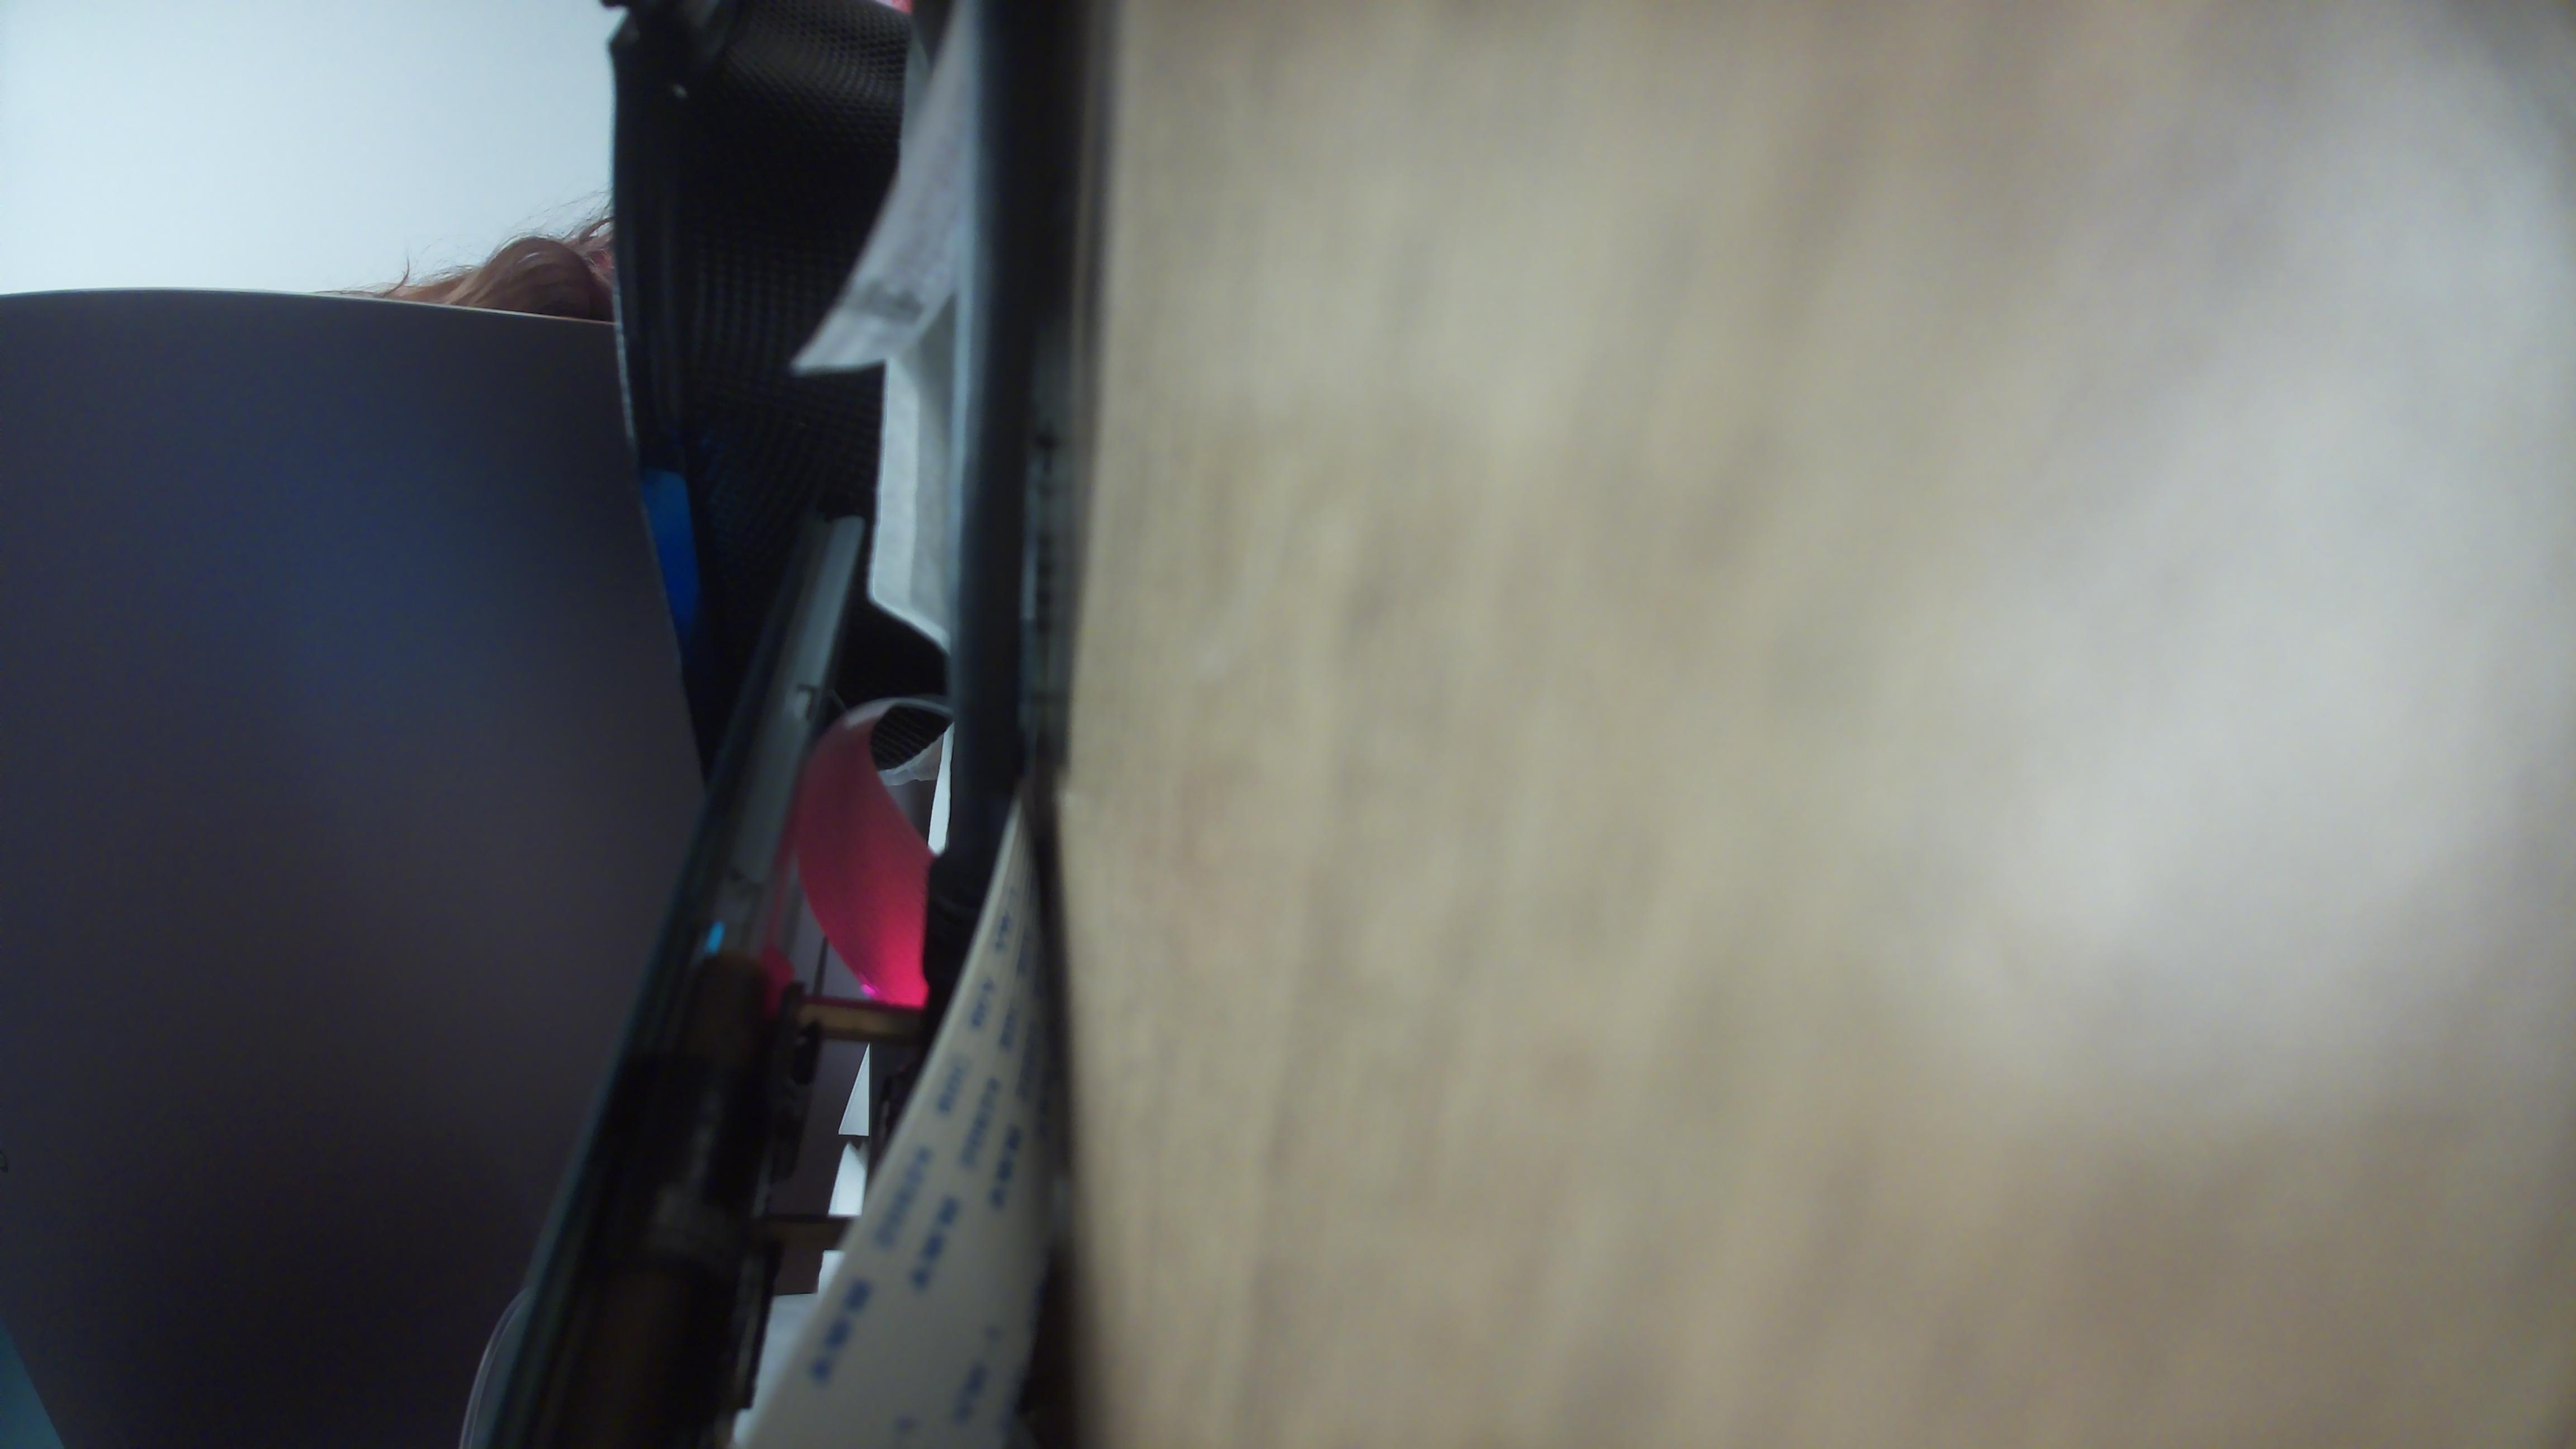
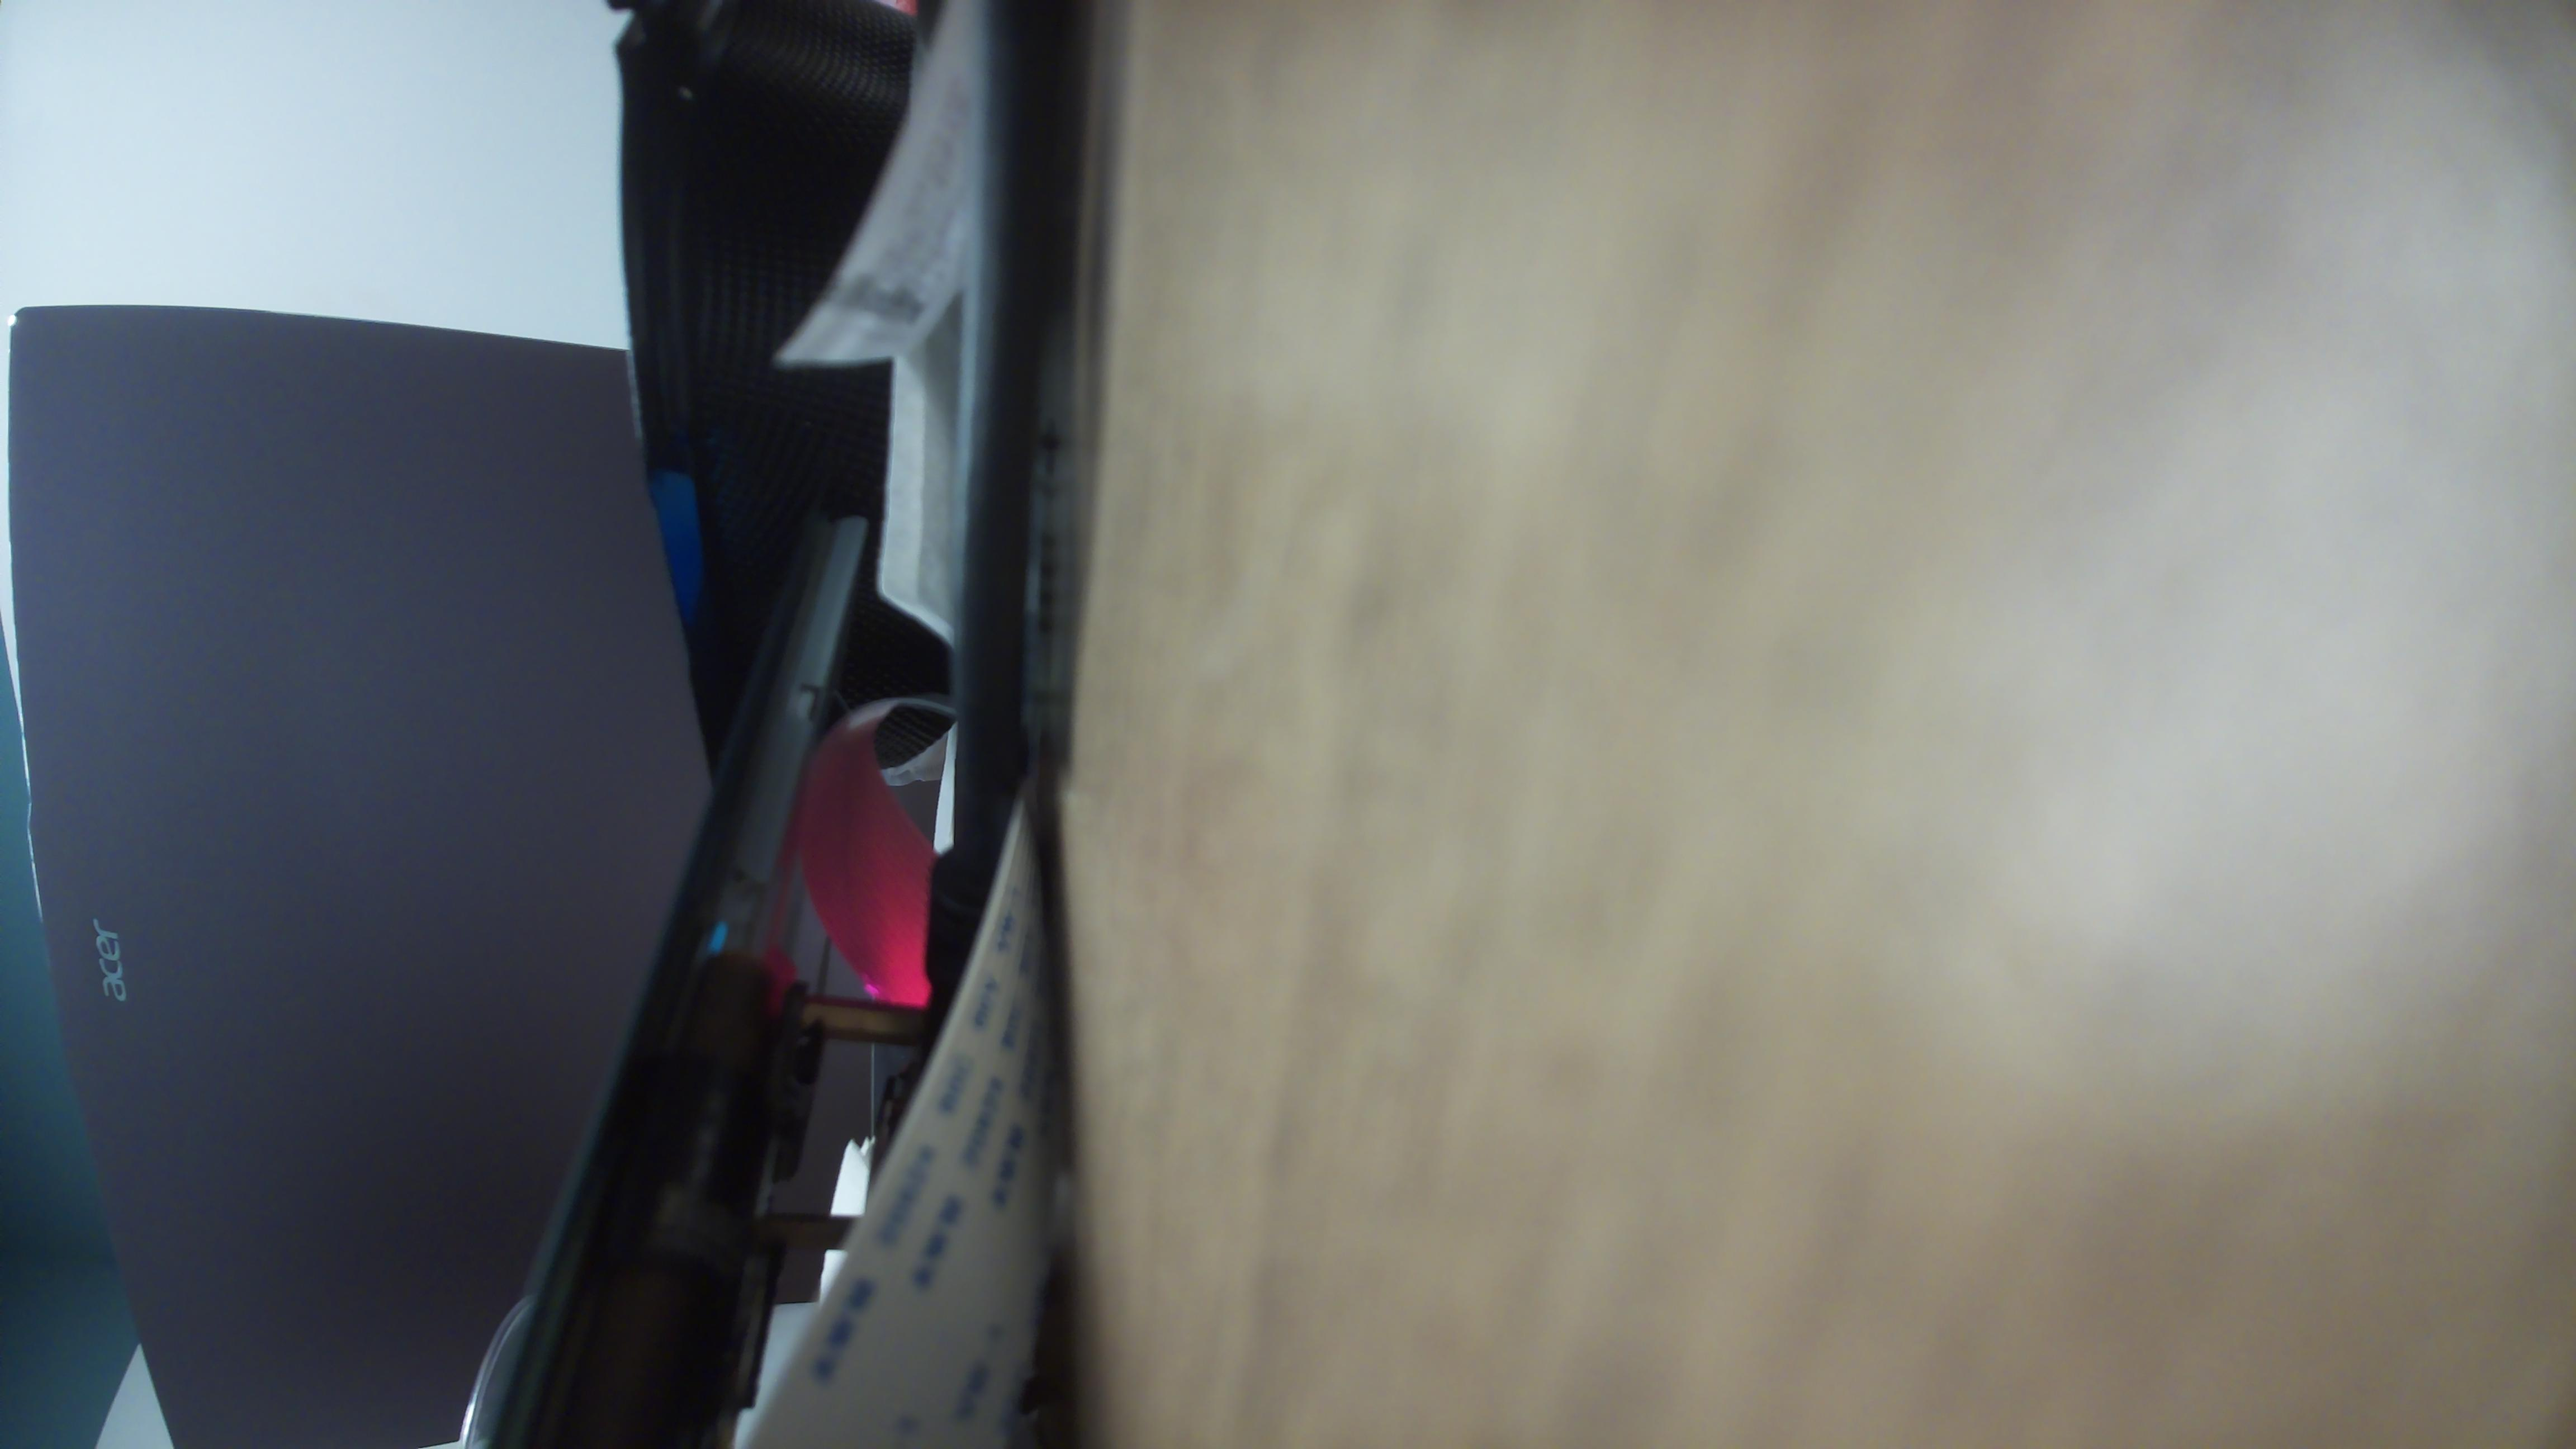
got corrected camera with output showing

diff --git a/src/test/test_camera_display.py b/src/test/test_camera_display.py
@@ -1,0 +1,23 @@
+import cv2
+from picamera2 import Picamera2
+import time
+
+# Initialize camera
+picam2 = Picamera2()
+picam2.configure(picam2.create_preview_configuration(main={"format": 'BGR888'}))
+
+# Start camera
+picam2.start()
+time.sleep(2)  # Let it warm up
+
+# Stream loop
+while True:
+    frame_bgr = picam2.capture_array()
+    frame_rgb = cv2.cvtColor(frame_bgr, cv2.COLOR_BGR2RGB)  # Fix colors
+
+    cv2.imshow("Camera Preview (RGB Fixed)", frame_rgb)
+
+    if cv2.waitKey(1) & 0xFF == ord('q'):
+        break
+
+cv2.destroyAllWindows()
